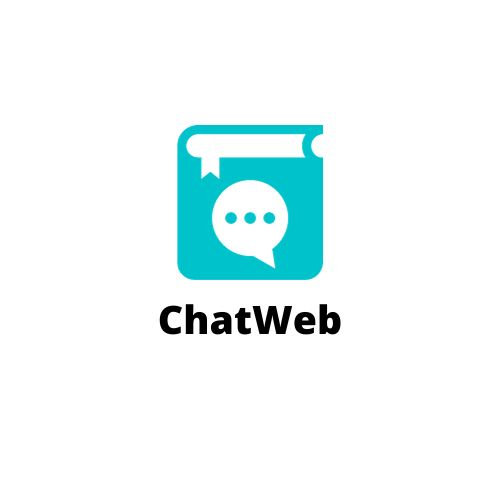
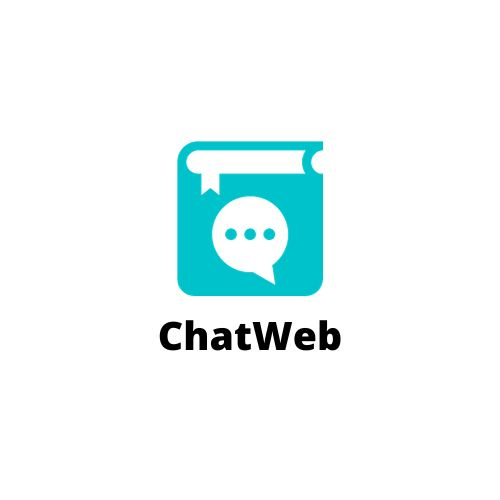
Landing Page Created

Changed region(s): [[0.3, 0.24, 0.69, 0.72]]

diff --git a/frontend/src/App.jsx b/frontend/src/App.jsx
@@ -2,23 +2,37 @@ import { Component, useState } from 'react'
 import './App.css'
 import "bootstrap/dist/css/bootstrap.min.css";
 import "bootstrap/dist/js/bootstrap.bundle.min";
+import webname from '../src/assets/webname.jpg'
 
 class App extends Component {
-  constructor(){
+  constructor() {
     super();
+    this.tologinPage = this.tologinPage.bind(this);
+    this.toregisterPage = this.toregisterPage.bind(this);
   }
 
-  componentDidMount(){
+  componentDidMount() {
 
   }
-  componentWillUnmount(){
-    
+  componentWillUnmount() {
+
   }
 
-  render(){
-    return(
+  tologinPage(){
+    this.props.history.push('LoginPage');
+  }
+  toregisterPage(){
+    this.props.history.push('RegisterPage');
+  }
+
+  render() {
+    return (
       <div>
-        
+        <div className='introBox'>
+          <img src={webname} alt="" className='webname' /><br/>
+          <button type="button" className="btn btn-secondary" style={{marginRight: '10px'}} onClick={this.tologinPage}>Login Account</button>
+          <button type="button" className="btn btn-primary" style={{marginLeft: '10px'}} onClick={this.toregisterPage}>Register Account</button>
+        </div>
       </div>
     );
   }

diff --git a/frontend/src/main.jsx b/frontend/src/main.jsx
@@ -5,11 +5,15 @@ import './index.css'
 import "bootstrap/dist/css/bootstrap.min.css";
 import "bootstrap/dist/js/bootstrap.bundle.min";
 import { BrowserRouter as Router, Route, Switch } from 'react-router-dom';
+import LoginPage from './pages/Login Page/LoginPage.jsx';
+import RegisterPage from './pages/Register Page/RegisterPage.jsx';
 
 ReactDOM.createRoot(document.getElementById('root')).render(
   <div>
     <Router>
       <Route exact path='/' component={App} />
+      <Route path='/LoginPage' component={LoginPage} />
+      <Route path='/RegisterPage' component={RegisterPage} />
     </Router>
   </div>
 )

diff --git a/frontend/src/pages/Register Page/RegisterPage.jsx b/frontend/src/pages/Register Page/RegisterPage.jsx
@@ -1,0 +1,27 @@
+import { Component, useState } from 'react'
+import "bootstrap/dist/css/bootstrap.min.css";
+import "bootstrap/dist/js/bootstrap.bundle.min";
+
+class RegisterPage extends Component {
+    constructor() {
+        super();
+
+    }
+
+    componentDidMount() {
+
+    }
+    componentWillUnmount() {
+
+    }
+
+    render() {
+        return (
+            <div>
+                Register Page
+            </div>
+        );
+    }
+}
+
+export default RegisterPage

diff --git a/frontend/src/pages/Login Page/LoginPage.jsx b/frontend/src/pages/Login Page/LoginPage.jsx
@@ -1,0 +1,27 @@
+import { Component, useState } from 'react'
+import "bootstrap/dist/css/bootstrap.min.css";
+import "bootstrap/dist/js/bootstrap.bundle.min";
+
+class LoginPage extends Component {
+    constructor() {
+        super();
+
+    }
+
+    componentDidMount() {
+
+    }
+    componentWillUnmount() {
+
+    }
+
+    render() {
+        return (
+            <div>
+                Login Page
+            </div>
+        );
+    }
+}
+
+export default LoginPage

diff --git a/frontend/src/App.css b/frontend/src/App.css
@@ -4,3 +4,17 @@
 body{
     background-color: lightgray;
 }
+.introBox{
+    background-color: white;
+    height: 63%;
+    width: 28%;
+    position: absolute;
+    left: 50%;
+    top: 50%;
+    transform: translate(-50%, -50%);
+    text-align: center;
+}
+.webname{
+    height: 80%;
+    width: 85%;
+}
